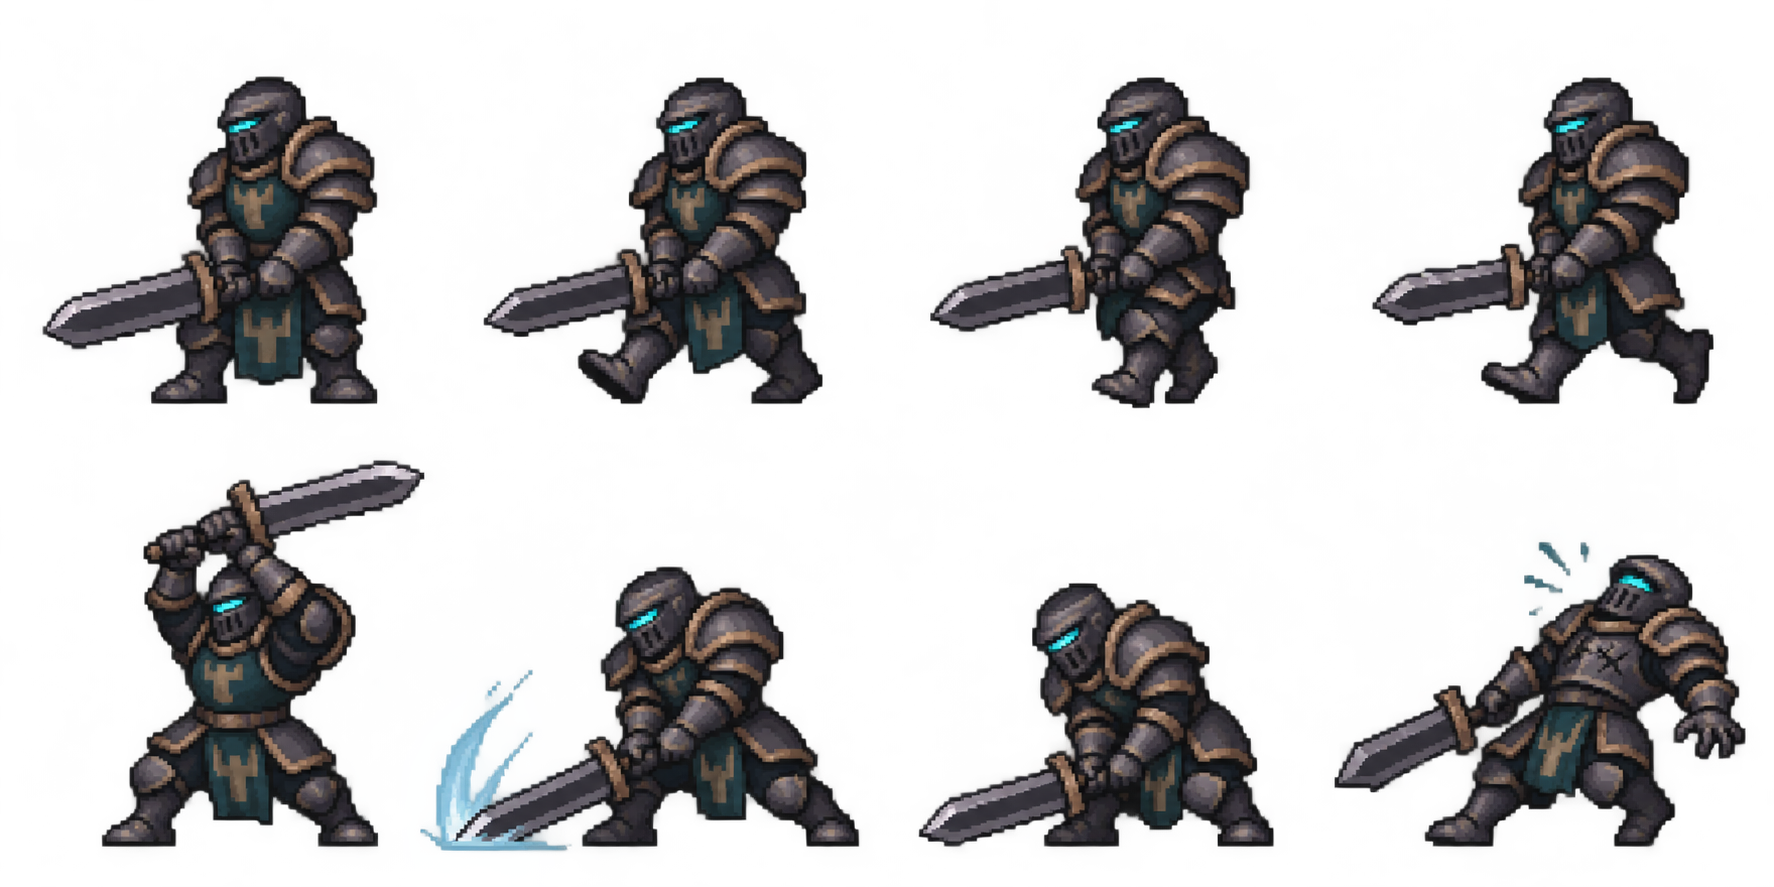
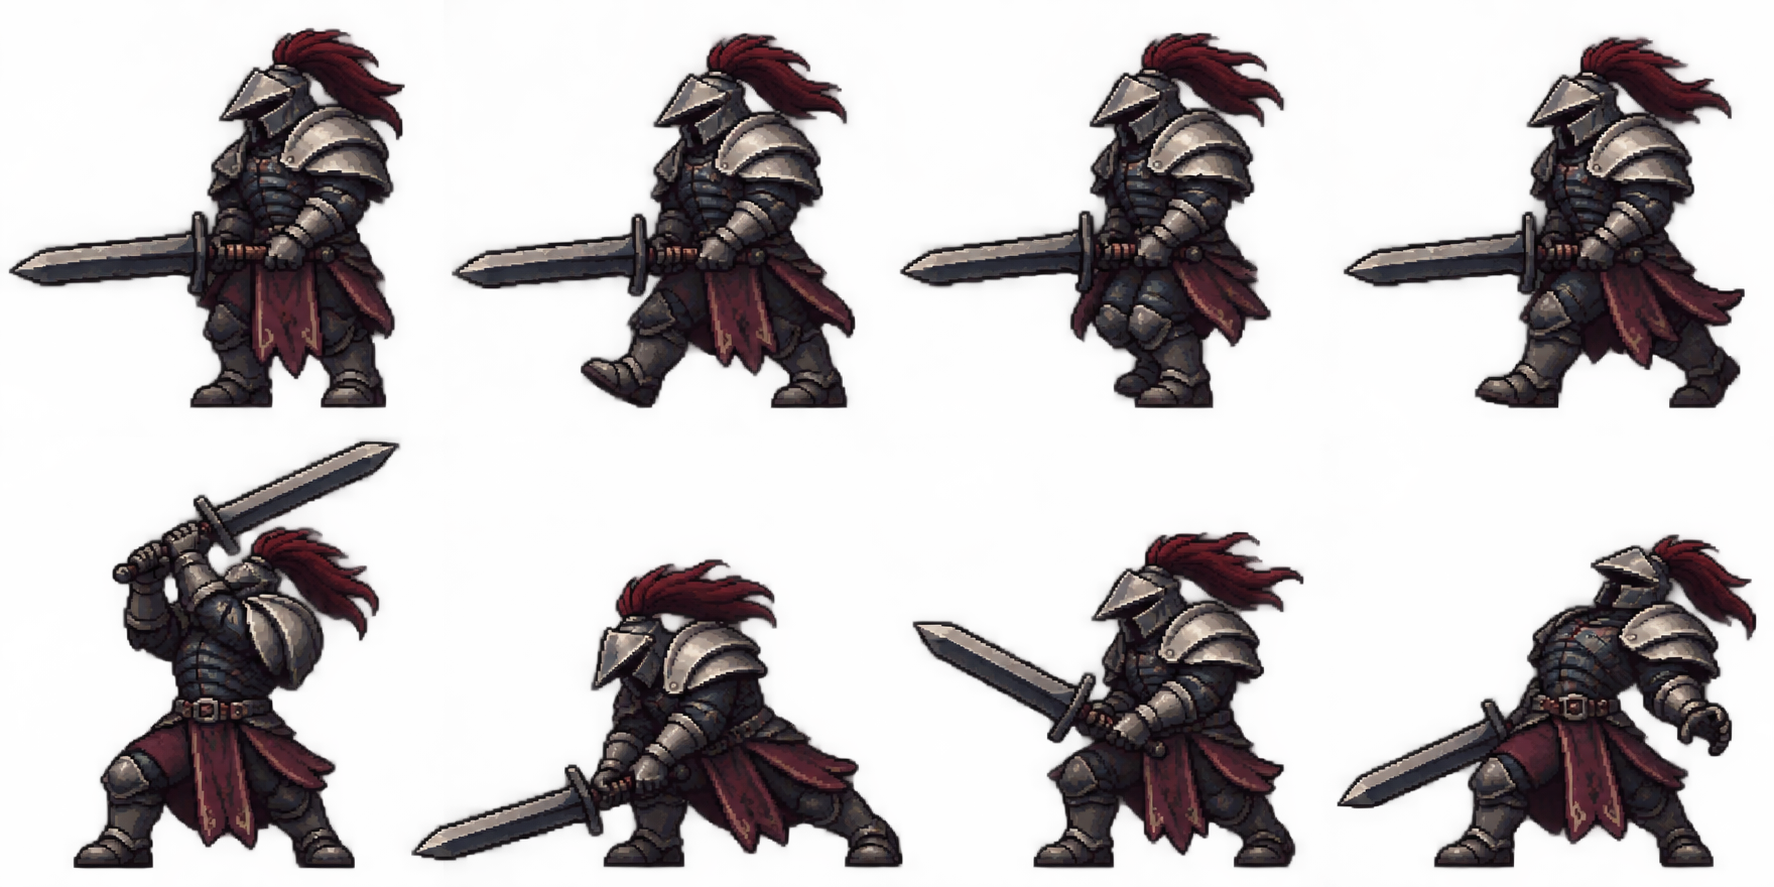
중갑병 찌르기 전용 6프레임 제작 및 발 위치 보정

diff --git a/src/chapter3.py b/src/chapter3.py
@@ -30,6 +30,7 @@ class ChapterThree(ChapterOne):
         super().__init__(width)
         path = Path(__file__).resolve().parents[1] / 'assets/characters/chapter3-heavy.png'
         self.heavy_image = p.load_image(str(path))
+        self.thrust_image = p.load_image(str(path.with_name("chapter3-thrust.png")))
 
     def reset(self):
         super().reset()
@@ -73,26 +74,26 @@ class ChapterThree(ChapterOne):
             x = enemy.x - self.camera_x
             if not -85 <= x <= self.viewport_width + 85:
                 continue
-            column, row = enemy.sprite_cell()
-            offset_x, offset_y, angle = 0, 0, 0
-            if enemy.lunge_windup:
-                progress = 1 - enemy.lunge_windup / enemy.LUNGE_WARNING
-                offset_x = -enemy.facing * (3 + 6 * progress)
-                offset_y = -4 * progress
-                angle = -0.10 * enemy.facing * progress
-            elif enemy.lunge_end is not None:
-                offset_x = 7 * enemy.facing
-                offset_y = -4
-                angle = 0.20 * enemy.facing
-            elif enemy.lunge_recovery:
-                progress = enemy.lunge_recovery / enemy.LUNGE_RECOVERY
-                offset_x = 4 * enemy.facing * progress
-                angle = 0.10 * enemy.facing * progress
-            self.heavy_image.clip_composite_draw(
-                column * cell_w, (1 - row) * cell_h, cell_w, cell_h,
-                angle, 'h' if enemy.facing > 0 else '',
-                x + offset_x, enemy.y + 58 + offset_y, 148, 148,
-            )
+            frame = enemy.thrust_frame()
+            flip = 'h' if enemy.facing > 0 else ''
+            if frame is None:
+                column, row = enemy.sprite_cell()
+                # 각 줄에서 장화 밑의 투명 여백을 제외한다.
+                bottom = (1 - row) * cell_h + (35 if row == 0 else 18)
+                height = cell_h - (35 if row == 0 else 18)
+                draw_h = round(148 * height / cell_h)
+                self.heavy_image.clip_composite_draw(
+                    column * cell_w, bottom, cell_w, height, 0, flip,
+                    x, enemy.y + draw_h / 2, 148, draw_h,
+                )
+            else:
+                tile_w, tile_h = self.thrust_image.w // 3, self.thrust_image.h // 2
+                row, col = divmod(frame, 3)
+                # 여섯 자세 모두 장화 밑창이 셀 하단에서 13픽셀 위에 있다.
+                self.thrust_image.clip_composite_draw(
+                    col * tile_w, (1 - row) * tile_h + 13, tile_w, tile_h - 13,
+                    0, flip, x, enemy.y + 64, round(128 * tile_w / (tile_h - 13)), 128,
+                )
             self.draw_target_health(enemy, enemy.y + 131)
             if enemy.barrier:
                 self.draw_barrier(enemy, x)

diff --git a/src/verysheidman.py b/src/verysheidman.py
@@ -32,12 +32,14 @@ class Verysheidman(Shieldman):
     lunge_windup: float = 0.0
     lunge_hit: bool = False
     lunge_recovery: float = 0.0
+    lunge_elapsed: float = 0.0
 
     def prepare_lunge(self, player_x, width):
         self.facing = 1 if player_x >= self.x else -1
         self.lunge_end = max(19, min(width - 19, self.x + self.facing * self.LUNGE_RANGE))
         self.lunge_windup = self.LUNGE_WARNING
         self.lunge_hit = False
+        self.lunge_elapsed = 0.0
 
     def advance_lunge(self, dt, player):
         if self.lunge_recovery > 0:
@@ -48,6 +50,7 @@ class Verysheidman(Shieldman):
             return False
 
         previous_x = self.x
+        self.lunge_elapsed += dt
         self.x += self.facing * min(abs(self.lunge_end - self.x), self.LUNGE_SPEED * dt)
         if abs(self.lunge_end - self.x) < 0.001:
             self.x = self.lunge_end
@@ -87,11 +90,18 @@ class Verysheidman(Shieldman):
             return False
         return super().advance(dt, player, boxes, floor_y, platforms)
 
-    def sprite_cell(self):
-        if self.lunge_windup or self.lunge_recovery:
-            return 2, 1
+    def thrust_frame(self):
+        if self.lunge_windup:
+            return 0 if self.lunge_windup > 0.55 else 1
         if self.lunge_end is not None:
-            return 1, 1
+            if self.lunge_elapsed < 0.10:
+                return 2
+            return 3 if self.lunge_elapsed < 0.44 else 4
+        if self.lunge_recovery:
+            return 4 if self.lunge_recovery > 0.24 else 5
+        return None
+
+    def sprite_cell(self):
         if self.stagger or self.flash:
             return 3, 1
         if self.attack_age is not None:
